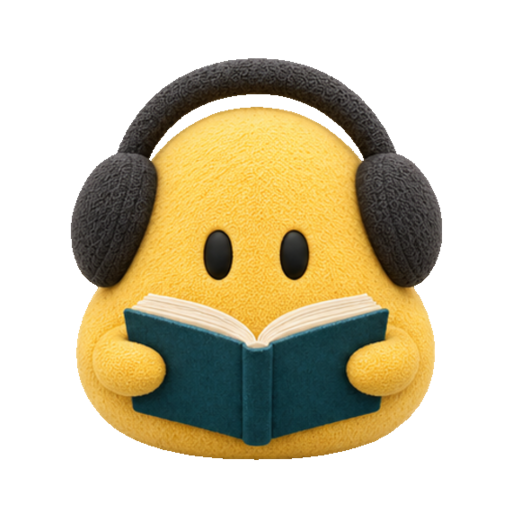
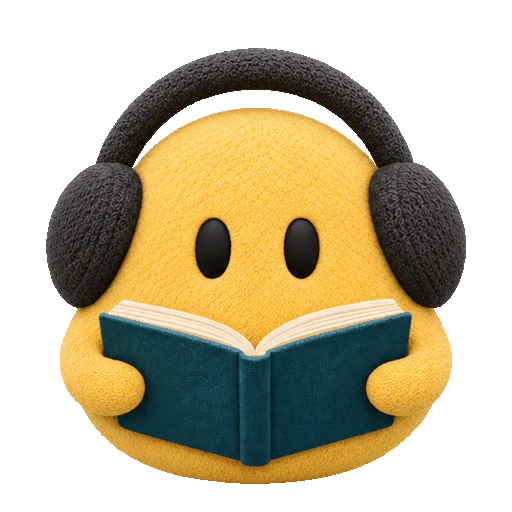
chore(buddies): replace the friends' reading GIFs with supplied artwork
Puri, Dungdung, Popo and Dori now use maintainer-supplied 512² reading GIFs
(8 frames, 220 ms, page turn); reading-rest.png is their first frame. The
reading boxes are recomputed from the new frames' eyes by the same rule.

Changed region(s): [[0.0625, 0.0938, 0.9375, 0.9688]]

diff --git a/.doan/assets/buddies/README.md b/.doan/assets/buddies/README.md
@@ -44,24 +44,23 @@ Each friend has `typing.gif`, `typing-rest.png`, `reading.gif` and `reading-rest
 shown in its existing `buddy-assets` frame; the working notice's copies are made from them (below).
 Built-in image_gen generated the typing source as an eight-pose 4-by-2 sprite sheet,
 using each friend's `still.png` for identity and Doany's `artist/typing-rest.png`
-for the action and prop. Reading uses the original eight-pose 4-by-2 sheet, with
-closed-eye poses replaced by the preceding open-eye poses and the original page turn
-retained. The silver laptop carries the Doany product logo reference;
-the reading prop is the same dark teal book. Prompts are in each buddy's
-`typing-prompt.json` and `reading-prompt.json`.
+for the action and prop. The silver laptop carries the Doany product logo reference.
+Prompts are in each buddy's `typing-prompt.json`.
 
-ImageMagick splits the sheets into equal cells, thresholds alpha at 65%, removes
+The reading GIFs were made by the maintainer outside this repository and supplied as files, kept as they are:
+512² with 1-bit transparency, 8 frames at 220 ms each (1.76 s) with a page turn and no blink, holding the same
+dark teal book. `reading-rest.png` is their first frame as RGBA.
+
+ImageMagick splits the typing sheets into equal cells, thresholds alpha at 65%, removes
 isolated mask components smaller than 150 pixels, and places the artwork on transparent
-512-square canvases. Reading retains its original framing. Typing omits the source's closed-eye pose and sequences the
+512-square canvases. Typing omits the source's closed-eye pose and sequences the
 seven open-eye poses across 24 frames at 100 ms each (2.4 s). A cosine brightness curve
-makes the laptop logo pulse from dark to white and back once per loop. Reading has
-8 frames at 220 ms each (1.76 s). Neither action blinks. Both GIFs use background
-disposal and infinite loops. The PNGs preserve the first processed frame. Source sheets and the assembly
+makes the laptop logo pulse from dark to white and back once per loop. Typing does not blink. Its GIF uses background
+disposal and an infinite loop. `typing-rest.png` preserves the first processed frame. Source sheets and the assembly
 script are retained locally in `.scratch/buddy-actions/`. Typing frames are registered
 to the first frame's laptop lid top and left edge; Dungdung required up to 28 px of
 horizontal and 5 px of vertical correction. The logo was generated from the Doany
 reference rather than copied exactly, so exact product-logo fidelity is unresolved.
-Reading uses newly generated page-turn poses rather than Doany's original hand motion.
 These limitations remain visible in the canvas and prompt metadata; the maintainer approved the frames.
 
 - Friends' cards and painter GIFs were made by the maintainer outside this repository and supplied as files.
@@ -110,14 +109,14 @@ character: the size scales the painting box by the eye separation (first frame),
 painting box's eye height, and the opacity-weighted centroid sits at 50 % of the width, as Doany's do. Applied to
 Doany, this lands within 8 source px of its own typing and reading boxes. Dungdung's typing pose has its eyes
 9 % further apart than its other poses at the same head width, so its typing box takes its size from the head width
-against its reading box instead. No box clips the character.
+instead. No box clips the character.
 
 | id | Typing box (x, y, size) | Reading box (x, y, size) |
 |---|---|---|
-| puri | −47, −51, 607 | −46, −50, 603 |
-| dungdung | −15, −11, 570 | −27, 3, 565 |
-| popo | −40, −12, 591 | −31, −7, 574 |
-| dori | −22, −6, 565 | −11, 25, 550 |
+| puri | −47, −51, 607 | −52, −22, 616 |
+| dungdung | −15, −11, 570 | −72, −46, 655 |
+| popo | −40, −12, 591 | −80, −46, 674 |
+| dori | −22, −6, 565 | −7, 15, 524 |
 
 ## Puri layers and rig
 
